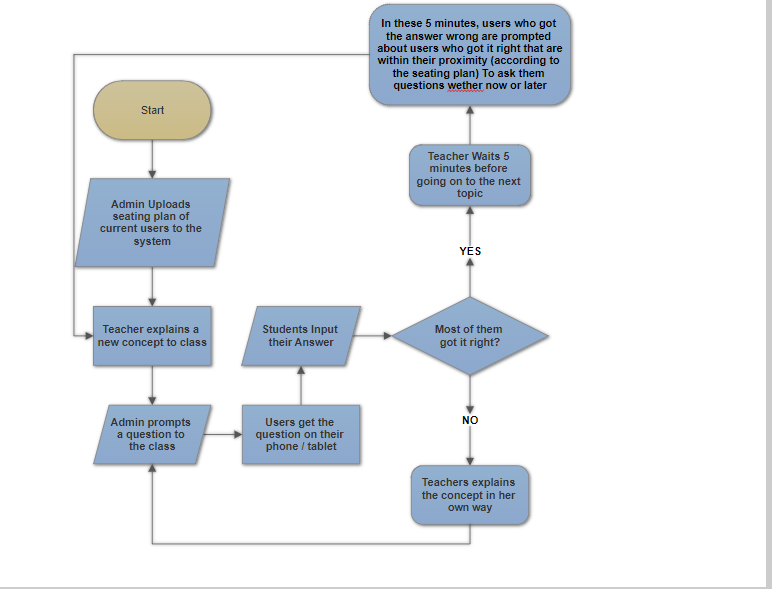
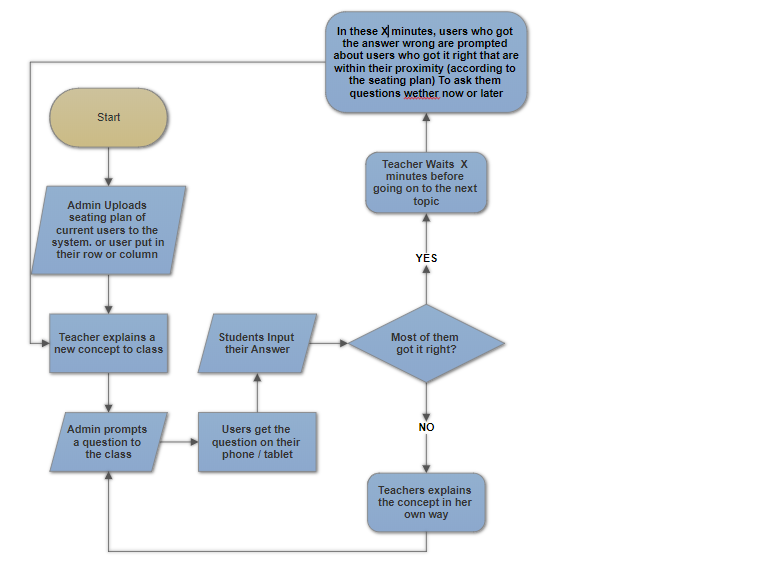
fixes from Emad

diff --git a/challenge2/Initial Prototype/initialprototype.md b/challenge2/Initial Prototype/initialprototype.md
@@ -25,16 +25,20 @@
   As an initial prototype it will just a UI (fluidUI) and a flow chart of the algorithm/process. We chose these methods because we thought it really shows the essence of what the project is and people could directly give feedback on the steps taken or the UI.
 
   The Usage of the App would look like this (Please refer to the [The Step by Step Procedure](https://gitlab.refugeelearning.site/rla/BeirutByByte/team-template/blob/master/challenge2/Initial%20Prototype/The%20Step%20by%20Step%20Procedure.PNG))
-  * Before the session starts. The teacher uploads the seating plan of the users to the app
+  * Before the session starts. The teacher uploads the seating plan of the users to the app / or the users input their column or row in the room.
   * She starts the lesson and at each milestone. She stops and prompts a question
   * The question shows up on the phone of every user/student. If not enough phones. then the users could easily share the phone and answer together.
   * The students answer the question on a phone or tablet
   * Then the teacher gets feedback whether to repeat or proceed
-    * If the yield (number of correct answers is low) is low, the teacher will repeat the explanation and do what she sees fit to get the message better across. Then she will prompt another question to the students which falls under the same concept
-    * If the yield is high, the teacher will give the answer to the question, then wait 5 minutes for the students to discuss among themselves on the answer. (the people who got it wrong ask those who got it right )
-  * If she proceeds the student who got it wrong, gets a message to ask a student that’s seating close to him(according to the seating plan) to help him after class or during the 5 minute break.
+    * If the yield (number of correct answers) is low, the teacher will repeat the explanation and do what she sees fit to get the message better across. Then she will prompt another question to the students which falls under the same concept
+    * If the yield is high, the teacher will give the answer to the question, then wait X minutes for the students to discuss among themselves on the answer. (the people who got it wrong ask those who got it right )
+  * If she proceeds the student who got it wrong, gets a message to ask a student that’s seating close to him(according to the seating plan) to help him after class or during the X minute break.
 
+  Extra Features
+  * Users could ask for harder questions
+  * Users get marked as tutors and helpers
 
+  Main Philosophy: *Groupwork: because you can't claim to have mastered something until you can teach it*
 4. What did you learn during the prototyping process?
 
   We had lots of ideas but they failed to address the current users and their situation.
